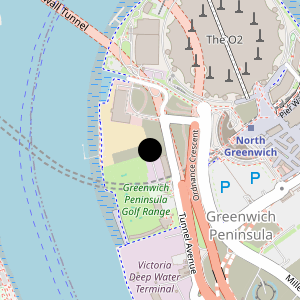
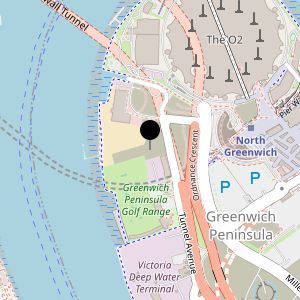
Render actual pins
Fixes #2

Changed region(s): [[0.45, 0.39, 0.54, 0.54]]

diff --git a/Sources/StaticMap/MapAnnotation+Render.swift b/Sources/StaticMap/MapAnnotation+Render.swift
@@ -24,8 +24,18 @@ extension MapAnnotation {
             return bounds
 
         case let .pin(coords: coords):
-            // TODO: Use something fancier
-            return Self.circle(coords: coords, radius: 12).render(to: ctx, with: params, style: style)
+            // TODO: Make these customizable via RenderStyle and modifiers in the MapAnnotation API
+            let pinHeadRadius = 10.0
+            let pinHeight = 20.0
+
+            let pinTargetPos = params.pixelPosForCoords(coords)
+            let pinHeadPos = pinTargetPos - Vec2(x: 0, y: pinHeight)
+
+            ctx.draw(line: LineSegment(from: pinHeadPos, to: pinTargetPos, color: .gray))
+            ctx.draw(ellipse: Ellipse(center: pinHeadPos, radius: Vec2(both: pinHeadRadius), color: style.color, isFilled: true))
+
+            let bounds = Rectangle(topLeft: pinTargetPos - Vec2(x: pinHeadRadius, y: 0), size: Vec2(x: 2 * pinHeadRadius, y: pinHeadRadius + pinHeight))
+            return bounds
         
         case let .label(annotation: annotation, text: text, padding: padding):
             var bounds = annotation.render(to: ctx, with: params, style: style)
